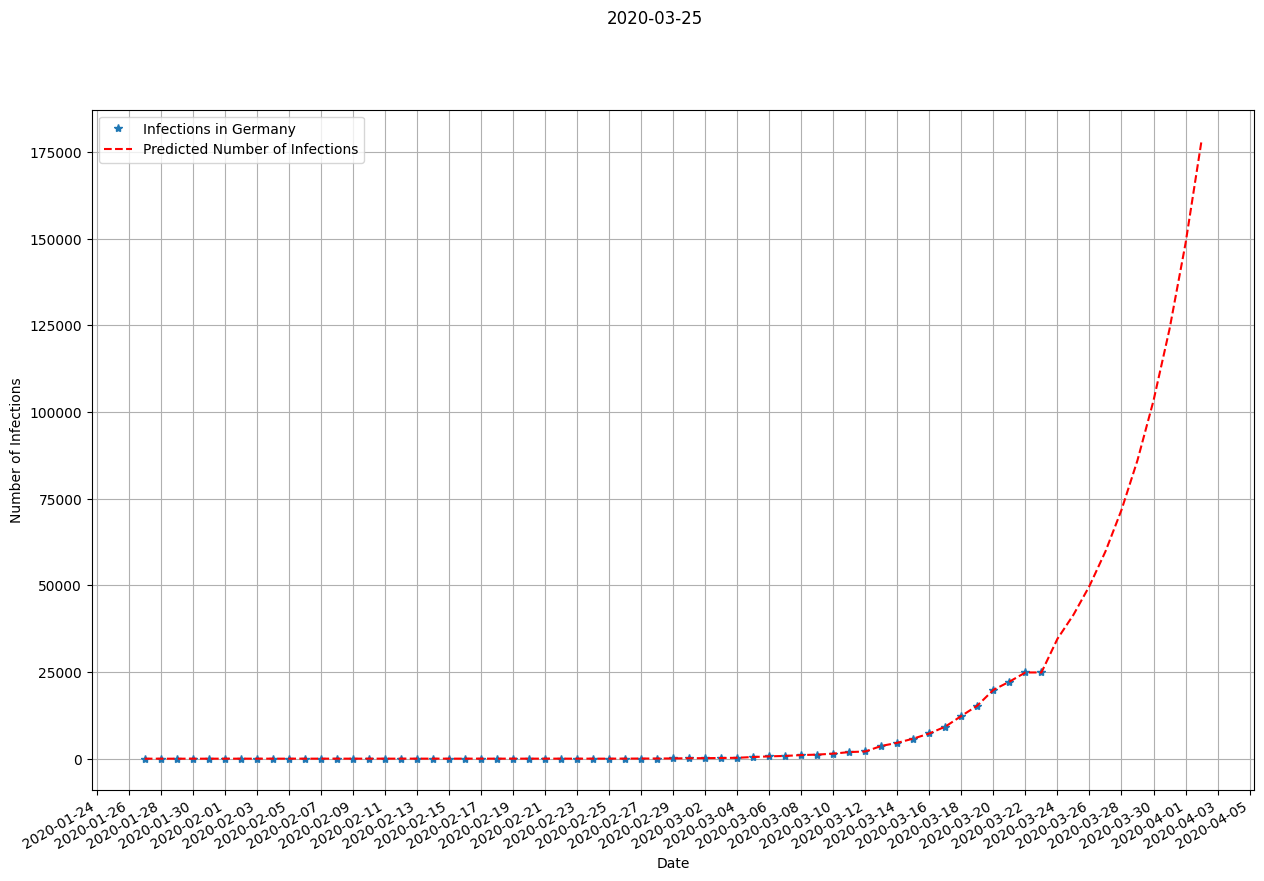
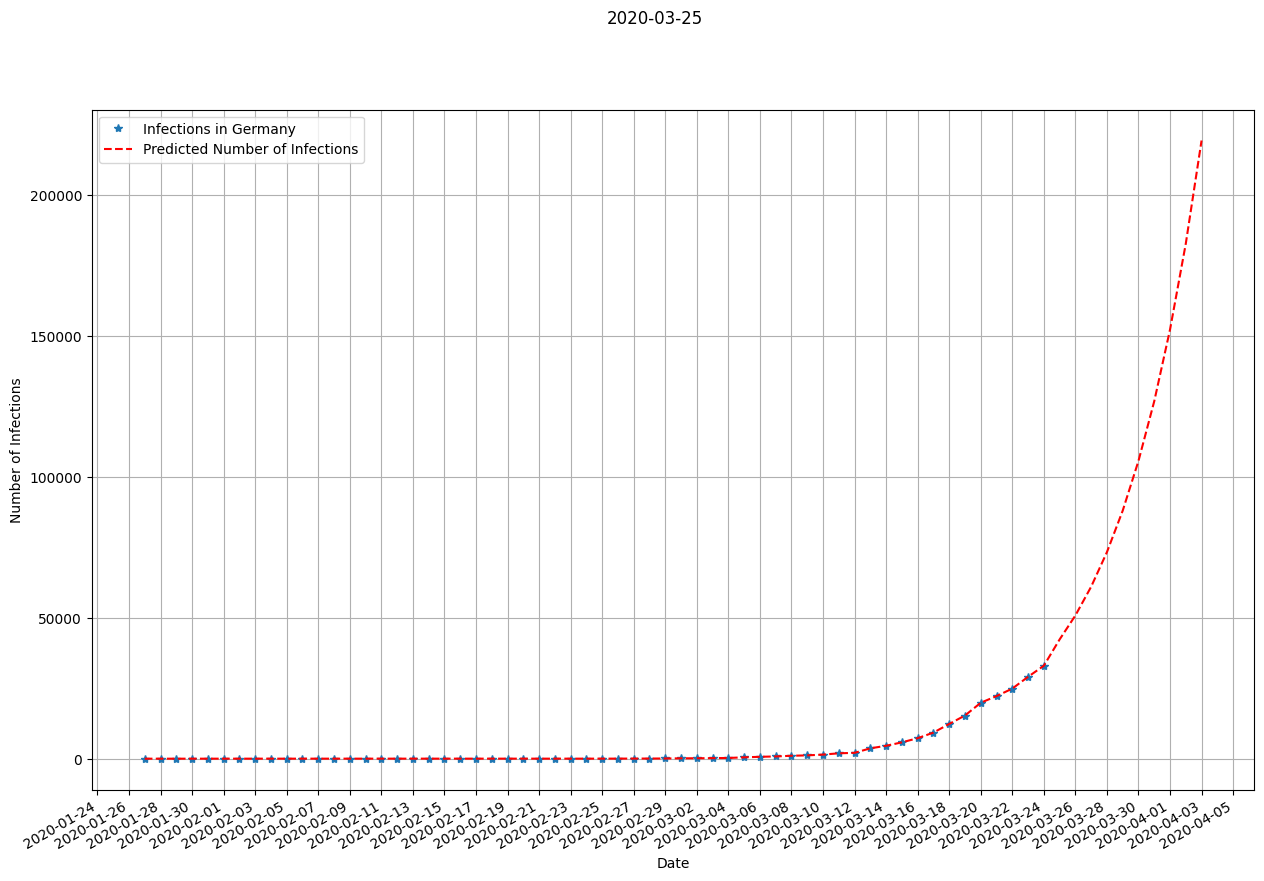
Auto Update

diff --git a/main.py b/main.py
@@ -12,8 +12,7 @@ from scipy.optimize import curve_fit
 from git import Repo
 
 CSV_FILENAME = "data/time_series_19-covid-Confirmed.csv"
-CSV_URL = 'https://raw.githubusercontent.com/CSSEGISandData/COVID-19/master/' \
-          'csse_covid_19_data/csse_covid_19_time_series/time_series_19-covid-Confirmed.csv'
+CSV_URL = 'https://raw.githubusercontent.com/CSSEGISandData/COVID-19/master/csse_covid_19_data/csse_covid_19_time_series/time_series_covid19_confirmed_global.csv'
 COUNTRY = "Germany"
 UPDATE_EVERY_HOUR = 4
 
